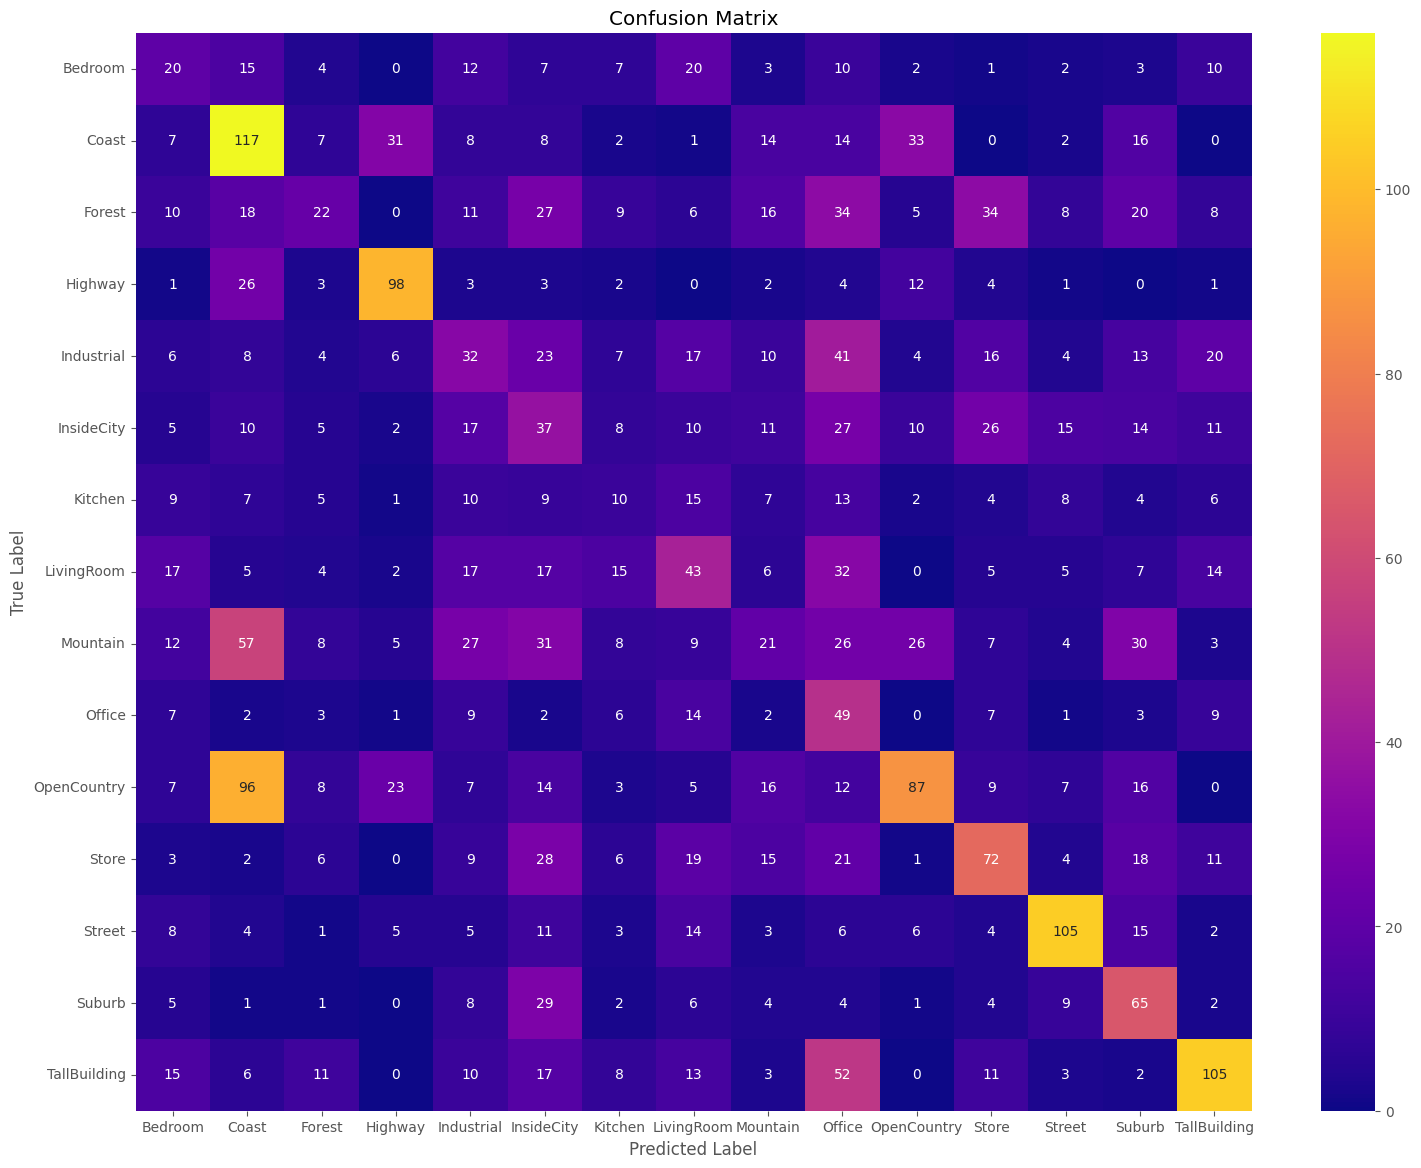
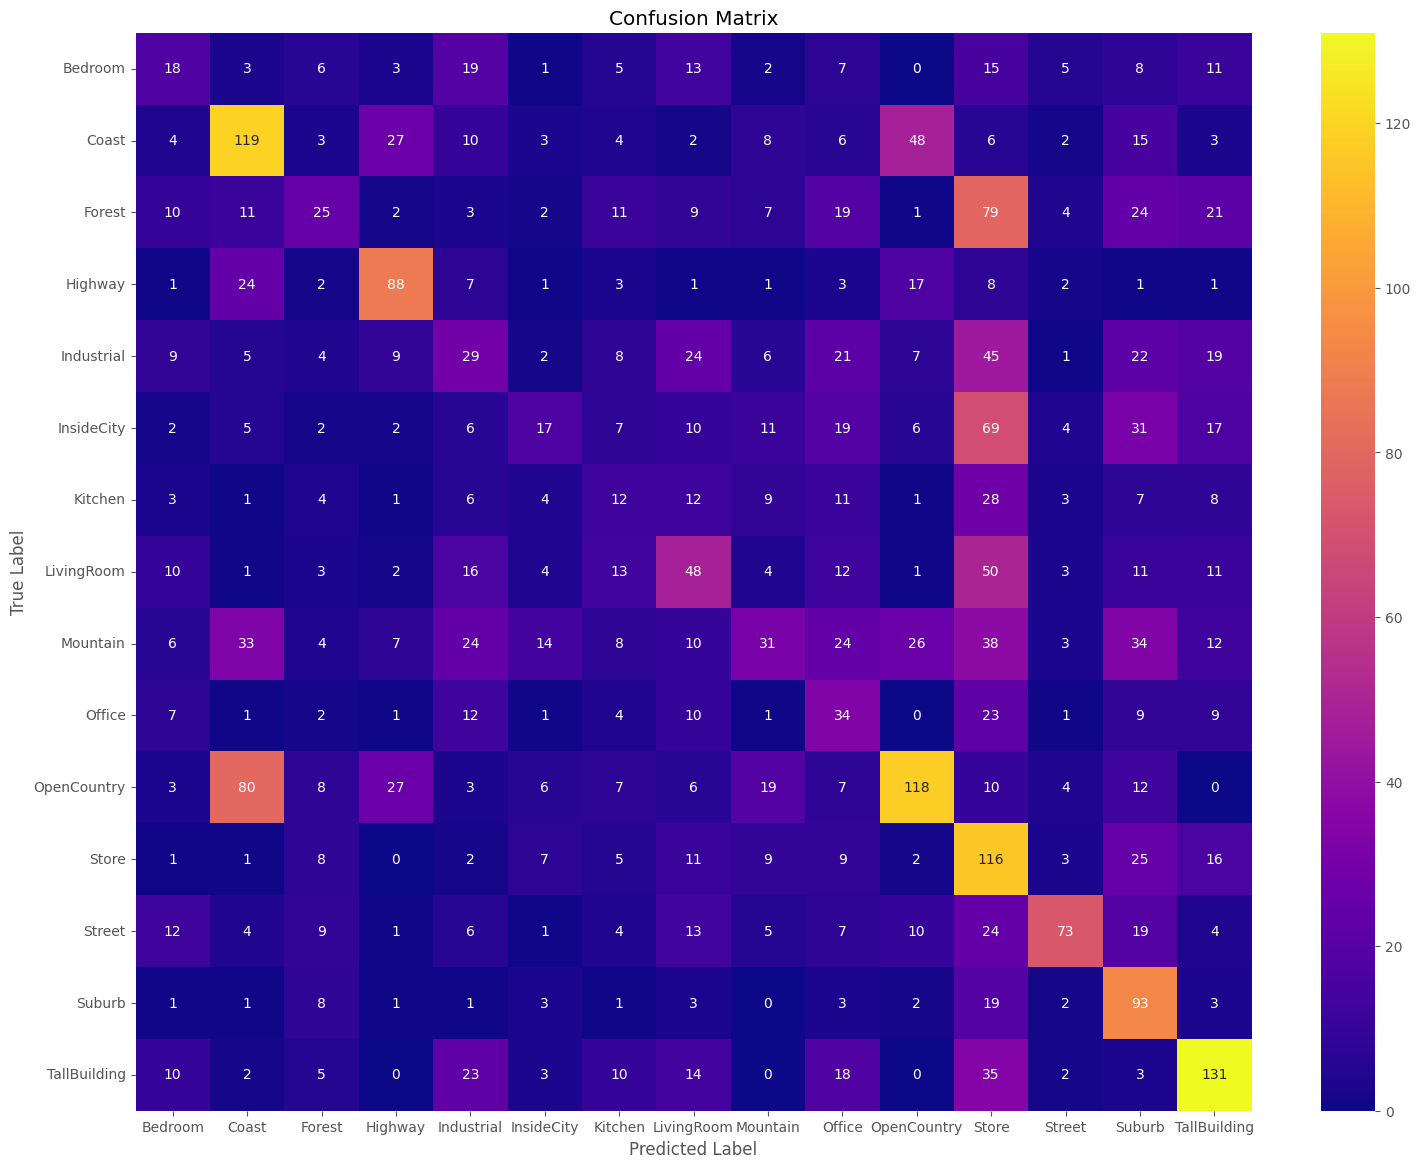
added stratify split

diff --git a/dataset/dataloader.py b/dataset/dataloader.py
@@ -1,8 +1,10 @@
 import torch
 from torchvision import datasets, transforms
 from torchvision.datasets import ImageFolder
-from torch.utils.data import DataLoader, random_split
+from sklearn.model_selection import train_test_split
+from torch.utils.data import DataLoader, Subset, random_split
 import os
+import numpy as np
 
 
 
@@ -39,15 +41,17 @@ class DatasetManager:
 
         train_data = ImageFolder(root=train_folder, transform=self.transform)   # ◀─┬ open data and apply
         test_data  = ImageFolder(root=test_folder,  transform=self.transform)   # ◀─┴ transformations
-        
-        val_size   = int(len(train_data) * self.val_split)                      # ◀─╮ compute the actual training 
-        train_size = len(train_data) - val_size                                 # ◀─╯ and validation dims
 
-        X_train, X_val = random_split(                                          # ◀─╮ 
-            train_data,                                                         #   │ Apply the split according 
-            [train_size, val_size],                                             #   ╰ to the computed dimensions
-            #generator=torch.Generator().manual_seed(42)                         # ◀── Seed for reproducibility
-        )
+        targets = train_data.targets                                            # ◀── Extract the labels 
+        train_idx, val_idx = train_test_split(                                  # ◀─┬ Use sk to generate stratified indices
+            np.arange(len(targets)),                                            #   │ ◀ array of indices to split
+            test_size=self.val_split,                                           #   │ 
+            shuffle=True,                                                       #   │ ◀ shuffle
+            stratify=targets                                                    #   │ ◀ stratify by label
+        )                                                                       #  ─╯
+
+        X_train = Subset(train_data, train_idx)                                 #  ─╮ create the Subsets 
+        X_val   = Subset(train_data, val_idx)                                   #  ─╯ using the indices
 
         train_loader = DataLoader(X_train, batch_size=B, shuffle=True)          # ◀─╮ crete the Dataloader  
         val_loader   = DataLoader(X_val, batch_size=B, shuffle=False)           #   │ for each data subdset

diff --git a/point1.py b/point1.py
@@ -4,6 +4,7 @@ from dataset.dataloader import DatasetManager
 from train import train
 from utils.utils import getDevice, setupMatplotlib
 import torch
+import numpy as np
 import time
 import matplotlib.pyplot as plt
 from utils import models_eval 
@@ -17,7 +18,8 @@ import argparse
 
 
 
-if __name__ == '__main__':
+
+if __name__ == '__main__': # 18
 
     parser = argparse.ArgumentParser(description="Script for training and plotting")
     parser.add_argument('-train', type=str, default='True', 
@@ -27,8 +29,9 @@ if __name__ == '__main__':
     
     setupMatplotlib()
 
-    torch.manual_seed(2)                                                        # ◀─┬ Setting the seed and
-    image_dims = (64, 64)                                                       # ◀─┴ image resolution
+    np.random.seed(44)                                                          # ◀─╮
+    torch.manual_seed(0)                                                        # ◀─┴ Setting the seed and
+    image_dims = (64, 64)                                                       # ◀── image resolution
     config_str = """
                  conv2d    channels: ->8   kernel_size: (3, 3)  stride: (1, 1)
                  relu 
@@ -76,7 +79,7 @@ if __name__ == '__main__':
         start = time.time()
         optim_class = torch.optim.SGD                                           # ◀─┬ define the optimizer class
         optim_opt   = {'momentum': 0.9}                                         # ◀─┴ and its config
-        losses = train(cnn, train_loader, val_loader, patience=40, lr=5e-4,     # ◀─┬ Training loop  
+        losses = train(cnn, train_loader, val_loader, patience=30, lr=11e-4,    # ◀─┬ Training loop  
                     device=device, epochs=12*3,  optim_class=optim_class,       #   │
                     optim_opt=optim_opt, use_amp=True)                          #   ╯ 
         print(f"\ntime: {time.time()-start: .3f} s\n")
